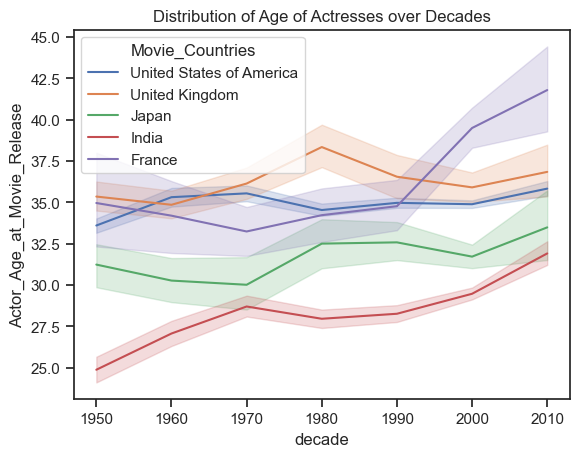
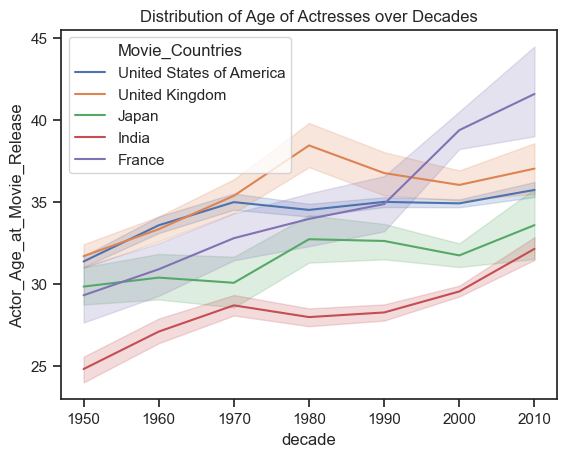
Work on data story

diff --git a/diversity.md b/diversity.md
@@ -2,6 +2,8 @@
 layout: default
 ---
 
+![avengers](assets/img/avengers-infinity-war.jpg)
+
 # Diversity analysis of actors
 
 Our first question is about the faces of the industry, the actors.
@@ -10,24 +12,49 @@ Has it changed over time?
 Do some countries consistently hire a more diverse cast than others?
 To answer these questions, we take a trip through the movie character dataset, which gives us a couple of insights on the physical attributes of the actors that portray them.
 
-## Gender
+First, looking at gender, we see that all industries are **heavily dominated by men**:
+
+![gender distribution](assets/img/gender-distribution.png)
+
+In a truly diverse world where each industry aims to have equal representation, the ratio of actresses over actors should be close to 1.
+Looking at this ratio over time, we observe that most countries are evolving towards that trend, some faster than others:
 
 ![gender ratios](assets/img/gender-ratios.png)
 
+Indeed, France and Japan seem to take the lead in actress representation, while India is going backwards with more male actors over time and becoming less representative than the US and the UK.
+**Japan and France take the win for gender representation**.
 
-## Age
-
-![age std](assets/img/age-std.png)
-
-![age distribution](assets/img/ages.png)
+Regarding the age of our performers, we see **a trend towards older actors and actresses** alike, although this effect is weaker for women.
+This is the age at movie release date, which is good news for actors that started out young and could maintain a long career.
 
 ![age female](assets/img/age-female.png)
 
 ![age male](assets/img/age-male.png)
 
-## Height
+But what about the diversity in ages?
+Looking at the standard deviation of ages in each industry, we see a **global increase of diversity in ages**, with US and UK plateauing since the 70s.
+
+![age std](assets/img/age-std.png)
+
+<!-- ![age distribution](assets/img/ages.png) -->
+
+We see a similar **upwards trend of height diversity** among actors across the globe.
+In the observed timeframe Japan has the lowest height span and thus less diversed actors w.r.t. height whereas the UK and US have the highest span. 
+Over the decades the span was at a minimum in the 50's and increased strongly after that. Since the 90's the span is at around 1.40 - 1.50 m.
 
 ![height distribution](assets/img/height-distribution.png)
+
+When looking at the evolution per country we see that the height diversity has increased so much in the 50's only because there were more movies in the US with more varying heights. 
+In France, India and Japan the increase happened 40 to 50 years later.
+
+![height spans](assets/img/height-spans.png)
+
+An interesting observation to make is the difference in height between industries.
+If we make a regression and try to predict actors' height with the movie's country and the decade it came out, the decade has close to no predictive power.
+As we see below, actors in Japanese movies are significantly shorter, while actors in the US and UK are taller.
+Given that these populations are in general shorter and taller respectivelly, it indicates that each industry is still hiring a majority of **local** talent.
+
+![height predictors](assets/img/height-regression.png)
 
 ## Ethnicity
 

diff --git a/README.md b/README.md
@@ -1,3 +1,5 @@
+![posters](assets/img/posters.jpg)
+
 # Introduction
 
 Cinema made its debut in the late 19th century and has become a multibillion-dollar industry, distributed over many different countries, and therefore made subject to distinct cultures and trends. Using the CMU Movie Summary Corpus, a collection of 42.306 movie plot summaries extracted from Wikipedia, aligned with movie and character metadata, we take a trip through time to take a look at these trends and how they have (or have not) differed across the world.

diff --git a/data.md b/data.md
@@ -2,6 +2,8 @@
 layout: default
 ---
 
+![data meme](assets/img/data-meme.png)
+
 # Selecting the data
 
 This project uses the CMU Movie Summary Corpus, a collection of 42.306 movie plot summaries extracted from Wikipedia.

diff --git a/duration.md b/duration.md
@@ -2,6 +2,8 @@
 layout: default
 ---
 
+![long movie](assets/img/long-movie.gif)
+
 # How long will I be in the theater?
 
 TODO: paragraph about different runtimes and then describing the results below
